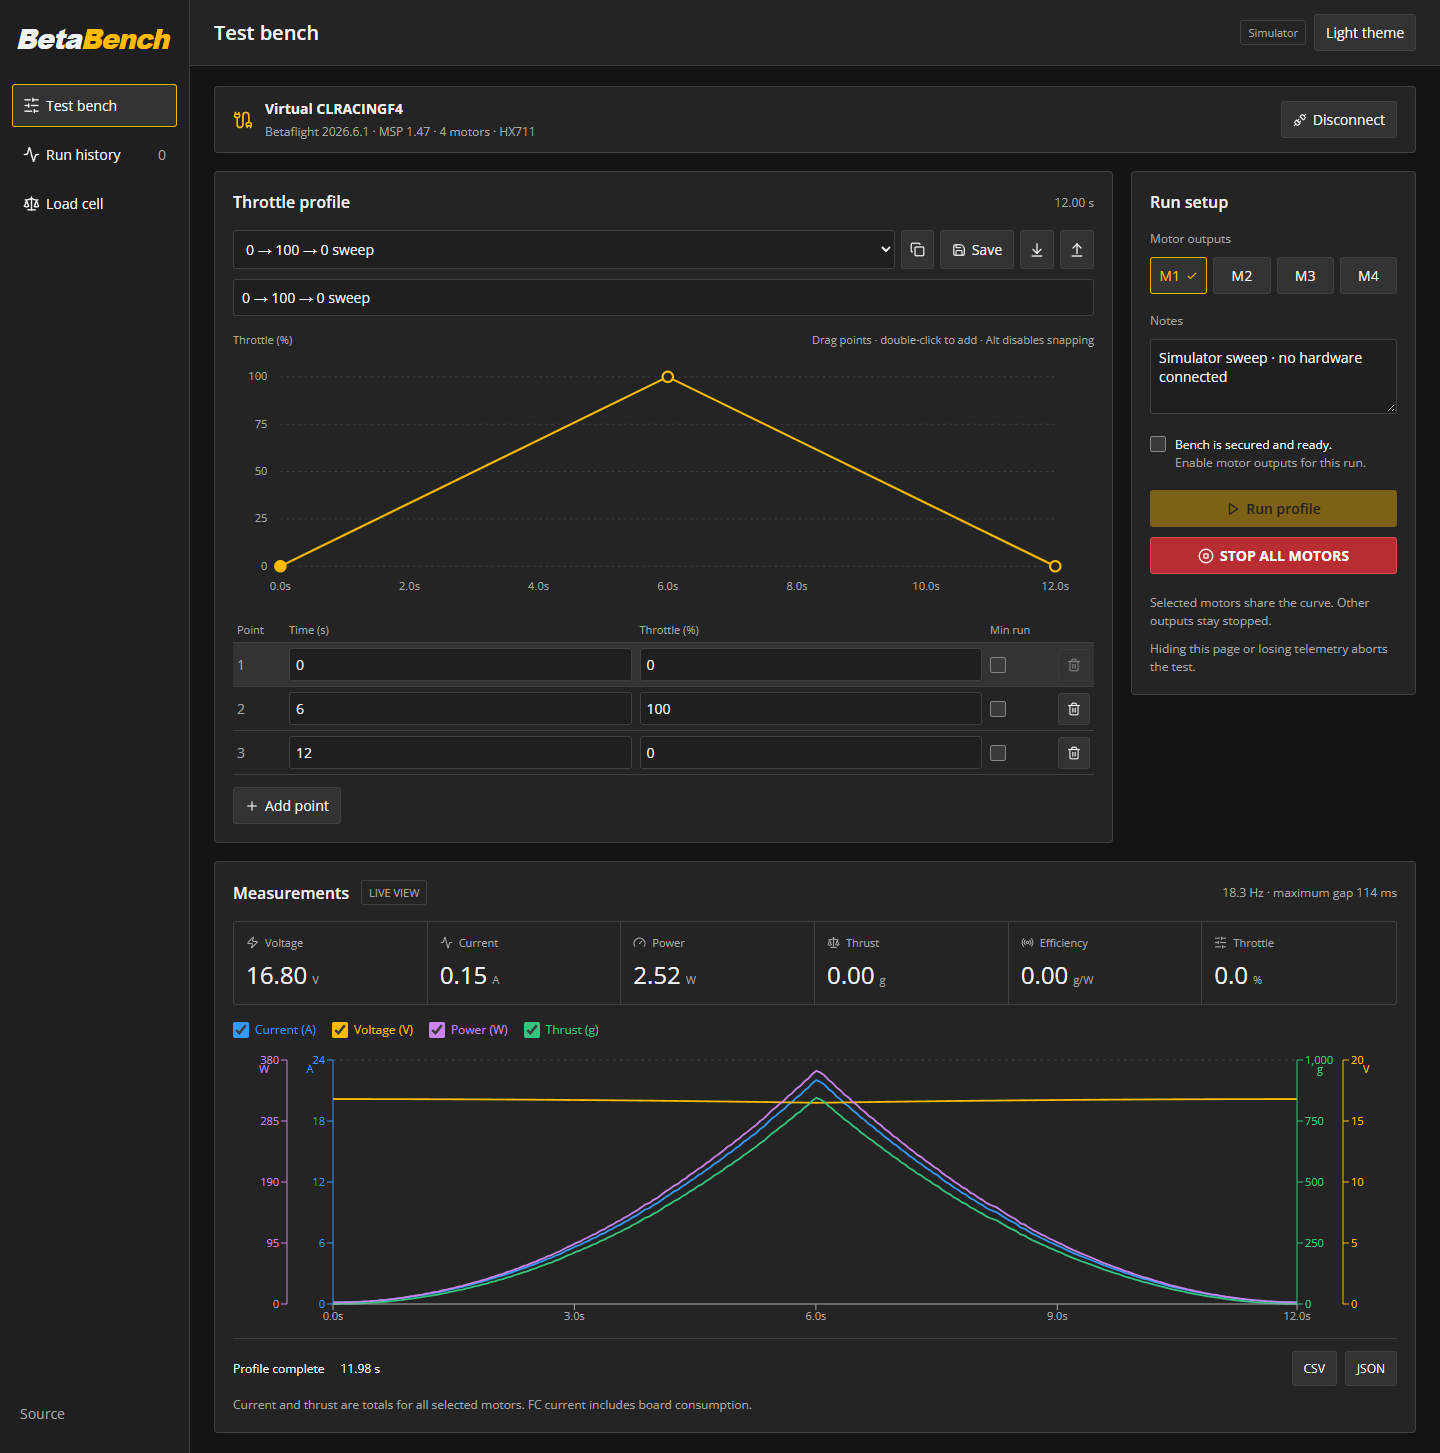
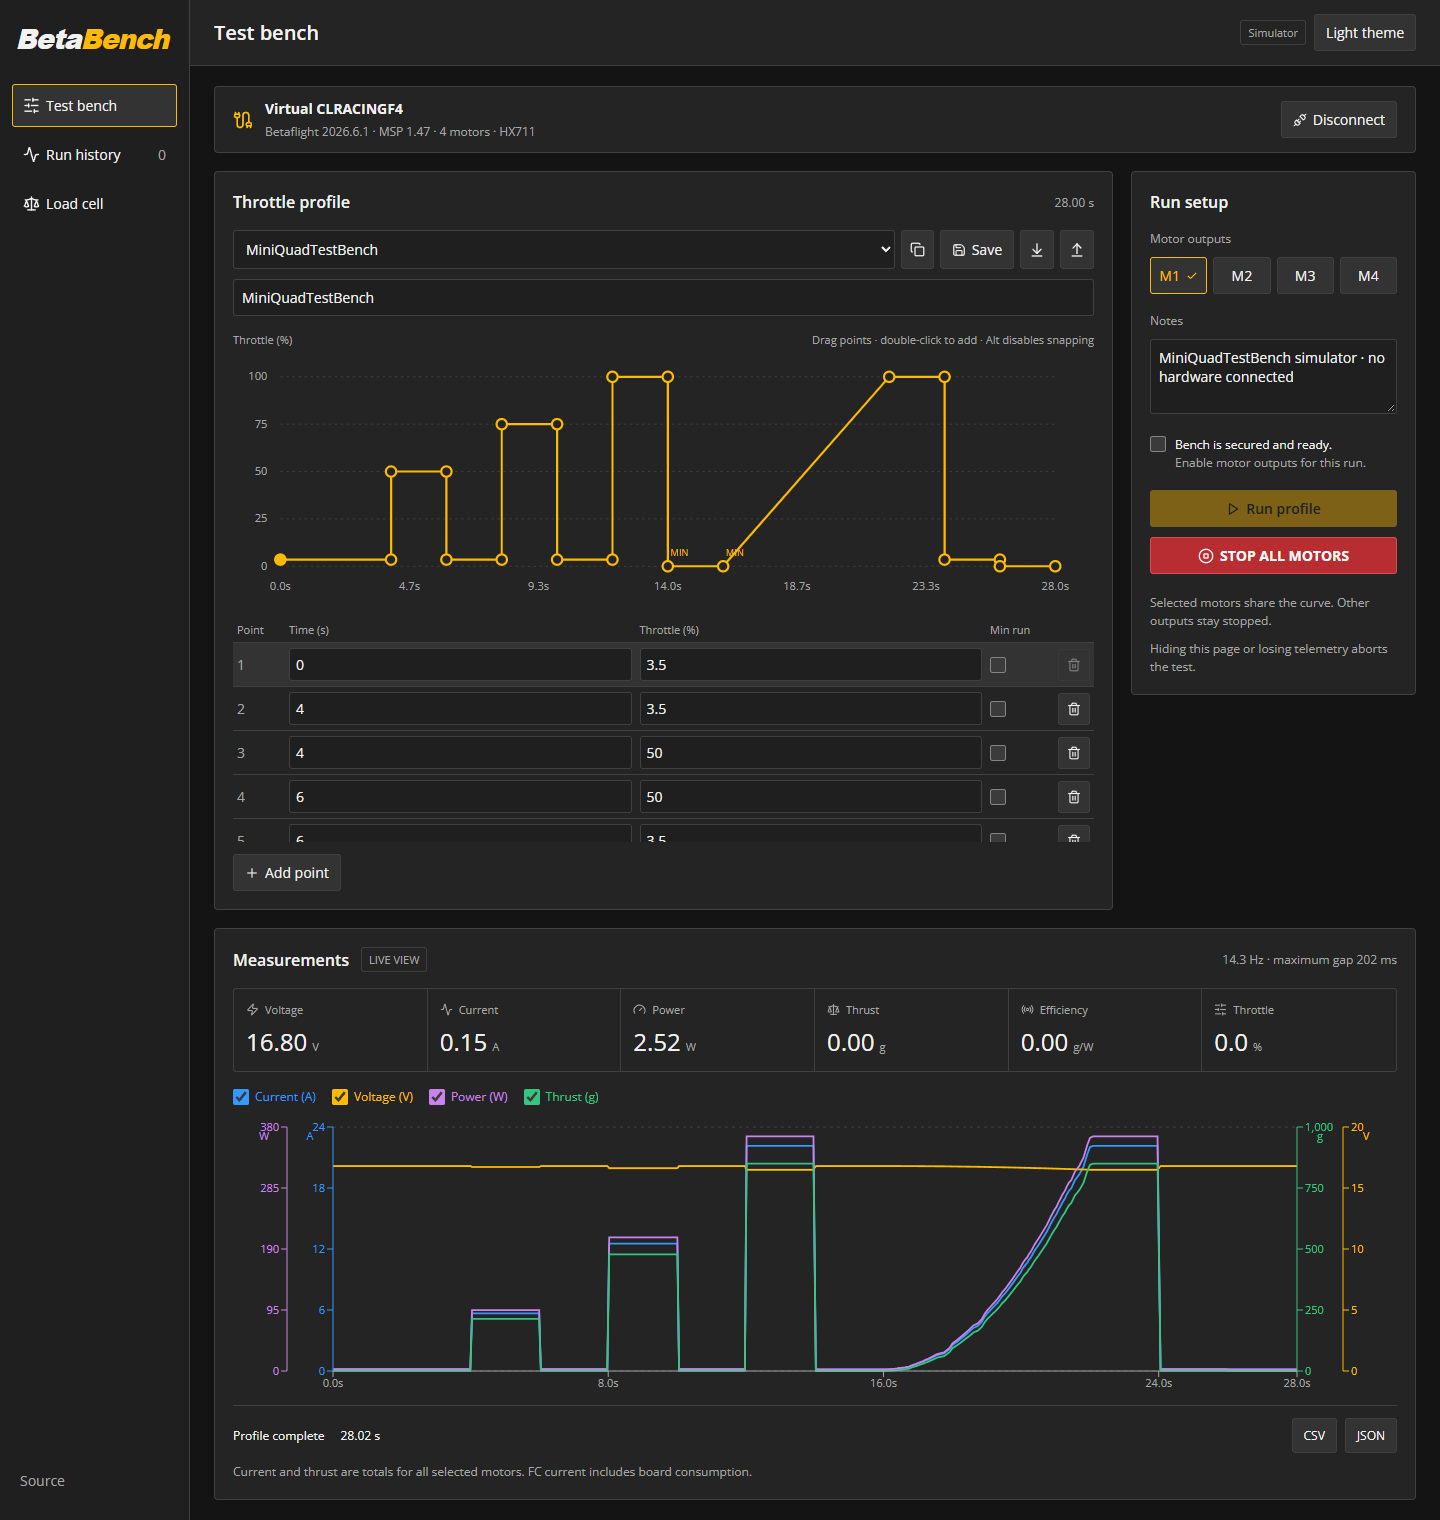
Show MiniQuadTestBench profile in README screenshot

diff --git a/PLAN.md b/PLAN.md
@@ -18,7 +18,7 @@ Betaflight changes are limited to an opt-in `USE_HX711` raw sensor driver, persi
 - [x] Implement raw HX711 acquisition and versioned read-only MSP.
 - [x] Move tare, calibration and UID-keyed persistence to IndexedDB in the web app.
 - [x] Match Configurator's yellow and neutral-gray theme; remove promotional headings and subtitles.
-- [x] Integrate the approved full BetaBench wordmark in the app and README; add an actual simulator screenshot while retaining the existing palette.
+- [x] Integrate the approved full BetaBench wordmark in the app and README; add an actual MiniQuadTestBench simulator screenshot while retaining the existing palette.
 - [x] Replace segment editing with freely draggable time/throttle points and sticky right angles.
 - [x] Preserve ramps, holds, steps, stopped/minimum-running distinction and legacy profile imports.
 - [x] Place import beside profile download.

diff --git a/README.md b/README.md
@@ -7,9 +7,9 @@ A browser-based motor and ESC test bench using a Betaflight flight controller.
 
 **[Open Betabench](https://fractalengineer.github.io/Betabench/)** · [Implementation checklist](PLAN.md) · [Firmware and wiring](firmware/README.md) · [MSP extension](firmware/PROTOCOL.md)
 
-![BetaBench test bench with an editable sweep and simulated current, voltage, power and thrust measurements](docs/images/test-bench.png)
+![BetaBench running the MiniQuadTestBench profile with simulated current, voltage, power and thrust measurements](docs/images/test-bench.png)
 
-_Simulator run; no hardware connected._
+_MiniQuadTestBench simulator run; no hardware connected._
 
 ## Use
 
